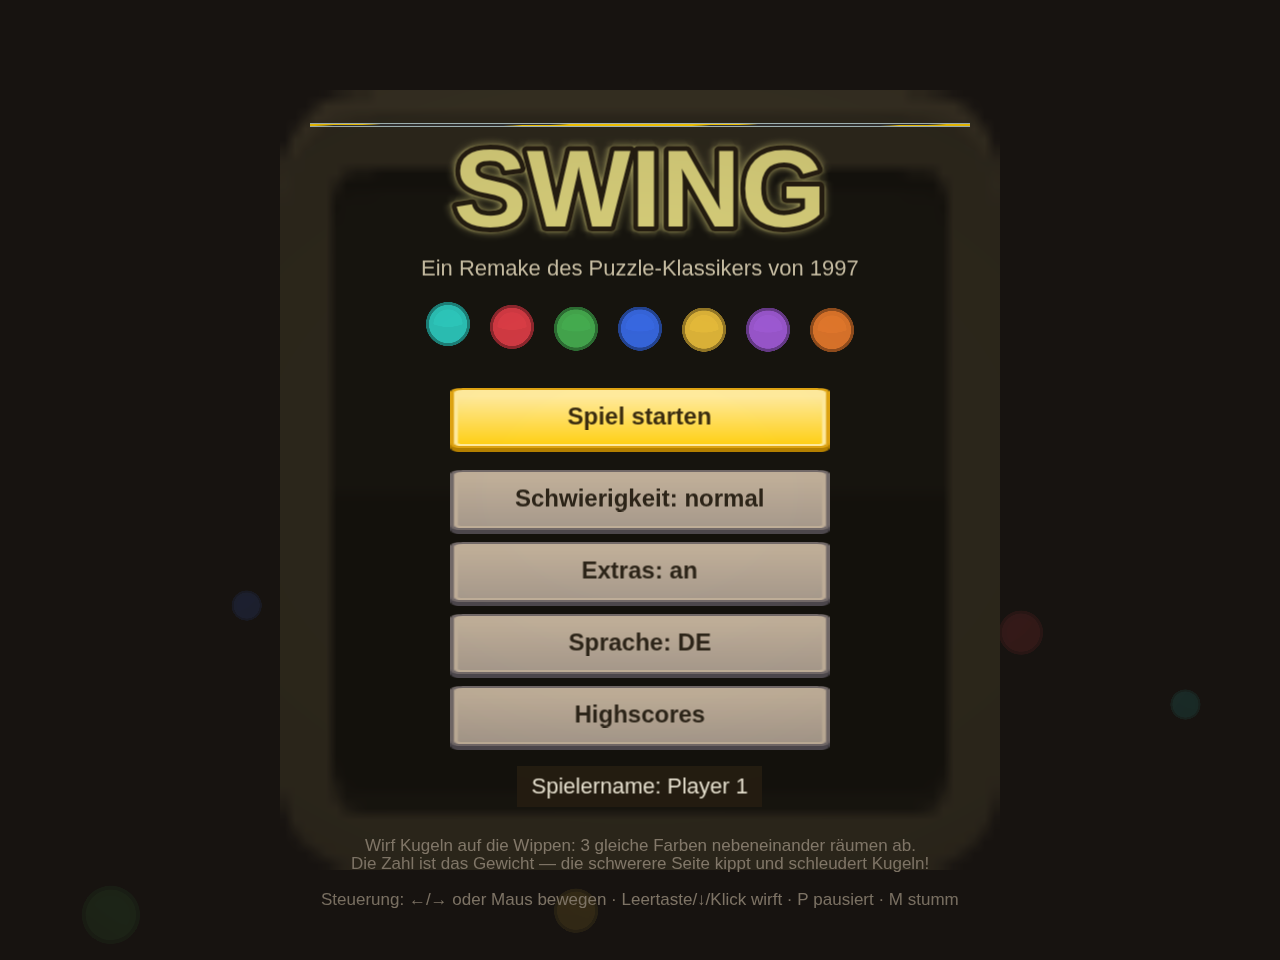
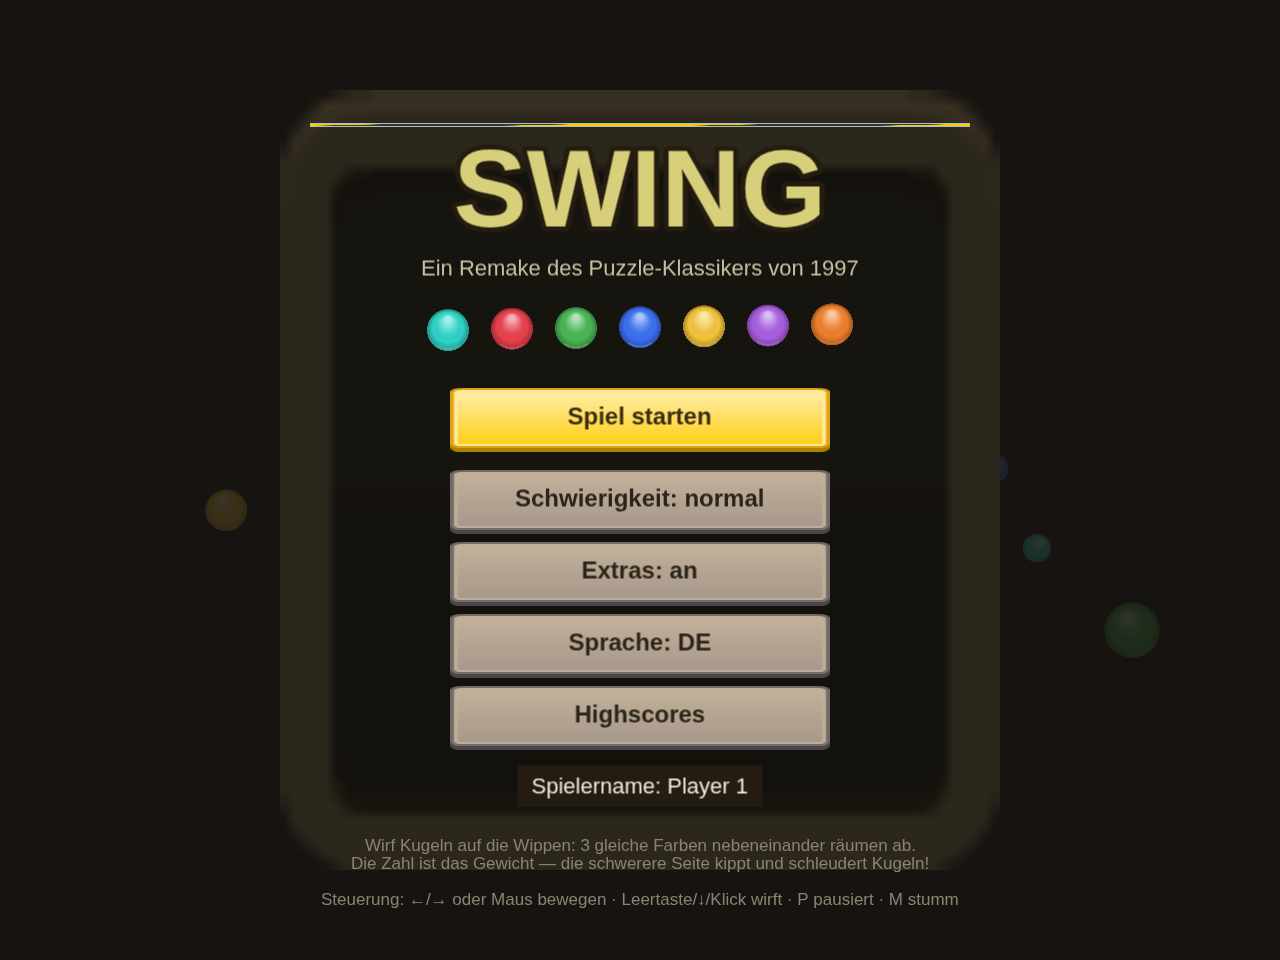
Fake-3D balls: shaded sphere textures with dynamic specular and roll layer
Replaces the tinted Kenney marble with runtime-generated sphere
textures (per color + heart/bomb/star, conic-gradient rainbow joker):
baked top light, dark occluded rim, bottom bounce light. Each ball is
now three layers - shaded base, faint surface bands, specular dot.
The specular tracks the scene light source every frame as balls move;
during catapult flights only the surface layer rotates while shading,
specular and the weight number stay put, selling the rolling-sphere
illusion. Falling balls stretch slightly and keep the impact squash.

Claude-Session: https://claude.ai/code/session_01XkumnvhzRckXP6D2DwknxV

diff --git a/src/scenes/PreloadScene.js b/src/scenes/PreloadScene.js
@@ -1,7 +1,7 @@
-// Loads every asset with a progress bar, generates the joker's rainbow
-// texture, then hands over to the menu (or straight into the game for
-// ?autostart=1 test runs).
-import { LAYOUT, FONTS } from '../config.js';
+// Loads every asset with a progress bar, generates the shaded ball textures
+// and helper gradients, then hands over to the menu (or straight into the
+// game for ?autostart=1 test runs).
+import { LAYOUT, FONTS, COLOR_TINTS, HEART_TINT, BOMB_TINT, STAR_TINT } from '../config.js';
 import { setLang } from '../i18n.js';
 
 const INDUSTRIAL = [
@@ -34,8 +34,6 @@ export class PreloadScene extends Phaser.Scene {
     const fill = this.add.rectangle(cx - 206, cy + 20, 0, 18, 0xd8cf7a).setOrigin(0, 0.5);
     this.load.on('progress', (v) => { fill.width = 412 * v; });
 
-    this.load.image('ball', 'assets/balls/ball.png');
-    this.load.image('ball-plain', 'assets/balls/ball_plain.png');
     for (const name of INDUSTRIAL) this.load.image(`i-${name}`, `assets/industrial/${name}.png`);
     for (const name of PARTICLES) this.load.image(`p-${name}`, `assets/particles/${name}.png`);
     this.load.image('ui-button', 'assets/ui/button.png');
@@ -46,7 +44,7 @@ export class PreloadScene extends Phaser.Scene {
   }
 
   create() {
-    this.makeJokerTexture();
+    this.makeBallTextures();
     this.makeGeneratedTextures();
     const params = this.game.registry.get('params') ?? {};
     if (params.lang) setLang(params.lang);
@@ -97,23 +95,113 @@ export class PreloadScene extends Phaser.Scene {
     beam.refresh();
   }
 
-  // The joker is a rainbow ball: multiply a diagonal rainbow over the grey
-  // marble, then clip back to the marble's alpha.
-  makeJokerTexture() {
-    const src = this.textures.get('ball').getSourceImage();
-    const { width, height } = src;
-    const canvas = this.textures.createCanvas('ball-joker', width, height);
-    const ctx = canvas.getContext();
-    ctx.drawImage(src, 0, 0);
-    const grad = ctx.createLinearGradient(0, 0, width, height);
-    const stops = ['#ff5050', '#ffae30', '#ffe939', '#4fdc51', '#33c5ff', '#8a5cff', '#ff4bd8'];
-    stops.forEach((c, i) => grad.addColorStop(i / (stops.length - 1), c));
-    ctx.globalCompositeOperation = 'multiply';
-    ctx.fillStyle = grad;
-    ctx.fillRect(0, 0, width, height);
-    ctx.globalCompositeOperation = 'destination-in';
-    ctx.drawImage(src, 0, 0);
-    ctx.globalCompositeOperation = 'source-over';
-    canvas.refresh();
+  // Shaded sphere textures for every ball type, plus the specular dot and
+  // the rotating surface-band layer. All drawn at runtime — no image assets.
+  makeBallTextures() {
+    COLOR_TINTS.forEach((color, i) => makeShadedBall(this, `ball3d-c${i}`, color));
+    makeShadedBall(this, 'ball3d-heart', HEART_TINT);
+    makeShadedBall(this, 'ball3d-bomb', BOMB_TINT);
+    makeShadedBall(this, 'ball3d-star', STAR_TINT);
+    makeShadedBall(this, 'ball3d-joker', 0xcccccc, { rainbow: true });
+    makeSpecTexture(this);
+    makeBandTexture(this);
   }
+}
+
+const BALL_TEX_SIZE = 256;
+const BALL_TEX_R = 122;
+
+const cssColor = (color) => `#${color.toString(16).padStart(6, '0')}`;
+
+// A convincing 2D sphere: flat base color, a radial shading pass with the
+// light baked straight above (the dynamic specular wanders around it), a
+// dark occluded rim and a faint bounce light along the bottom edge.
+function makeShadedBall(scene, key, color, { rainbow = false } = {}) {
+  const S = BALL_TEX_SIZE;
+  const C = S / 2;
+  const R = BALL_TEX_R;
+  const canvas = scene.textures.createCanvas(key, S, S);
+  const ctx = canvas.getContext();
+  ctx.save();
+  ctx.beginPath();
+  ctx.arc(C, C, R, 0, Math.PI * 2);
+  ctx.clip();
+
+  if (rainbow && ctx.createConicGradient) {
+    const conic = ctx.createConicGradient(-Math.PI / 2, C, C);
+    const stops = ['#ff4b4b', '#ffae30', '#ffe93a', '#4fdc51', '#33c5ff', '#8a5cff', '#ff4bd8', '#ff4b4b'];
+    stops.forEach((s, i) => conic.addColorStop(i / (stops.length - 1), s));
+    ctx.fillStyle = conic;
+  } else if (rainbow) {
+    const lin = ctx.createLinearGradient(0, 0, S, S);
+    const stops = ['#ff4b4b', '#ffae30', '#ffe93a', '#4fdc51', '#33c5ff', '#8a5cff', '#ff4bd8'];
+    stops.forEach((s, i) => lin.addColorStop(i / (stops.length - 1), s));
+    ctx.fillStyle = lin;
+  } else {
+    ctx.fillStyle = cssColor(color);
+  }
+  ctx.fillRect(0, 0, S, S);
+
+  const shade = ctx.createRadialGradient(C, C - R * 0.52, R * 0.12, C, C + R * 0.12, R * 1.12);
+  shade.addColorStop(0, 'rgba(255,255,255,0.58)');
+  shade.addColorStop(0.3, 'rgba(255,255,255,0.14)');
+  shade.addColorStop(0.6, 'rgba(0,0,0,0)');
+  shade.addColorStop(0.87, 'rgba(0,0,0,0.30)');
+  shade.addColorStop(1, 'rgba(0,0,0,0.52)');
+  ctx.fillStyle = shade;
+  ctx.fillRect(0, 0, S, S);
+
+  // bounce light: thin bright arc along the lower rim
+  ctx.strokeStyle = 'rgba(255,255,255,0.14)';
+  ctx.lineWidth = 10;
+  ctx.beginPath();
+  ctx.arc(C, C, R - 10, Math.PI * 0.3, Math.PI * 0.7);
+  ctx.stroke();
+
+  ctx.restore();
+  canvas.refresh();
+}
+
+function makeSpecTexture(scene) {
+  const canvas = scene.textures.createCanvas('ball-spec', 64, 64);
+  const ctx = canvas.getContext();
+  const grad = ctx.createRadialGradient(32, 32, 2, 32, 32, 30);
+  grad.addColorStop(0, 'rgba(255,255,255,0.95)');
+  grad.addColorStop(0.3, 'rgba(255,255,255,0.4)');
+  grad.addColorStop(1, 'rgba(255,255,255,0)');
+  ctx.fillStyle = grad;
+  ctx.fillRect(0, 0, 64, 64);
+  canvas.refresh();
+}
+
+// Faint latitude bands + speckles; rotating this layer while the shading and
+// specular stay put reads as the ball rolling under a fixed light.
+function makeBandTexture(scene) {
+  const S = BALL_TEX_SIZE;
+  const C = S / 2;
+  const R = BALL_TEX_R;
+  const canvas = scene.textures.createCanvas('ball-band', S, S);
+  const ctx = canvas.getContext();
+  ctx.save();
+  ctx.beginPath();
+  ctx.arc(C, C, R - 2, 0, Math.PI * 2);
+  ctx.clip();
+  ctx.strokeStyle = 'rgba(0,0,0,0.16)';
+  ctx.lineWidth = 16;
+  ctx.beginPath();
+  ctx.ellipse(C, C - R * 0.3, R * 0.86, R * 0.34, 0, 0, Math.PI * 2);
+  ctx.stroke();
+  ctx.strokeStyle = 'rgba(0,0,0,0.10)';
+  ctx.lineWidth = 12;
+  ctx.beginPath();
+  ctx.ellipse(C, C + R * 0.42, R * 0.78, R * 0.26, 0, 0, Math.PI * 2);
+  ctx.stroke();
+  ctx.fillStyle = 'rgba(255,255,255,0.10)';
+  for (const [dx, dy, r] of [[-0.45, 0.1, 9], [0.35, -0.5, 7], [0.5, 0.42, 8]]) {
+    ctx.beginPath();
+    ctx.arc(C + dx * R, C + dy * R, r, 0, Math.PI * 2);
+    ctx.fill();
+  }
+  ctx.restore();
+  canvas.refresh();
 }

diff --git a/src/view/BallSprite.js b/src/view/BallSprite.js
@@ -1,6 +1,21 @@
-// A ball on screen: tinted marble + weight number, plus overlays for the
-// special kinds. Pure display object; all movement is tweened from outside.
-import { LAYOUT, COLOR_TINTS, HEART_TINT, BOMB_TINT, STAR_TINT, FONTS } from '../config.js';
+// A ball on screen with a faked-3D look built from three layers:
+//   base  — runtime-shaded sphere texture (light baked from straight above)
+//   band  — faint surface markings; rotates while the ball flies, selling
+//           the "rolling under a fixed light" illusion
+//   spec  — specular dot pointing at the scene's light source, repositioned
+//           dynamically as the ball moves (updateLight)
+// The weight label and kind overlays stay upright at all times.
+import { LAYOUT, LIGHT, FONTS } from '../config.js';
+
+const TEXTURE_FOR = (ball) => {
+  switch (ball.kind) {
+    case 'joker': return 'ball3d-joker';
+    case 'heart': return 'ball3d-heart';
+    case 'bomb': return 'ball3d-bomb';
+    case 'star': return 'ball3d-star';
+    default: return `ball3d-c${ball.color}`;
+  }
+};
 
 export class BallSprite extends Phaser.GameObjects.Container {
   constructor(scene, ball, x, y, diameter = LAYOUT.BALL_D) {
@@ -9,22 +24,24 @@ export class BallSprite extends Phaser.GameObjects.Container {
     this.kind = ball.kind;
     this.diameter = diameter;
 
-    const texKey = ball.kind === 'joker' ? 'ball-joker' : 'ball';
-    this.base = scene.add.image(0, 0, texKey);
-    this.base.setDisplaySize(diameter, diameter);
-    this.add(this.base);
+    this.base = scene.add.image(0, 0, TEXTURE_FOR(ball)).setDisplaySize(diameter, diameter);
+    this.band = scene.add.image(0, 0, 'ball-band')
+      .setDisplaySize(diameter, diameter)
+      .setAlpha(ball.kind === 'joker' ? 0.3 : 0.55)
+      .setAngle(ball.id * 47 % 360); // vary the resting surface per ball
+    this.spec = scene.add.image(0, 0, 'ball-spec')
+      .setDisplaySize(diameter * 0.52, diameter * 0.52)
+      .setAlpha(0.85);
+    this.add([this.base, this.band, this.spec]);
 
     switch (ball.kind) {
       case 'normal':
-        this.base.setTint(COLOR_TINTS[ball.color]);
         this.addLabel(scene, String(ball.weight), diameter);
         break;
       case 'heart':
-        this.base.setTint(HEART_TINT);
         this.addLabel(scene, '♥', diameter, '#ffffff');
         break;
       case 'bomb': {
-        this.base.setTint(BOMB_TINT);
         const fuse = scene.add.image(diameter * 0.22, -diameter * 0.3, 'p-flame_01')
           .setDisplaySize(diameter * 0.34, diameter * 0.34)
           .setTint(0xffa030);
@@ -33,7 +50,6 @@ export class BallSprite extends Phaser.GameObjects.Container {
         break;
       }
       case 'star': {
-        this.base.setTint(STAR_TINT);
         const star = scene.add.image(0, 0, 'ui-star')
           .setDisplaySize(diameter * 0.55, diameter * 0.55)
           .setTint(0xffffff);
@@ -41,8 +57,9 @@ export class BallSprite extends Phaser.GameObjects.Container {
         break;
       }
       case 'joker':
-        break; // rainbow texture speaks for itself
+        break; // the rainbow sphere speaks for itself
     }
+    this.updateLight();
     scene.add.existing(this);
   }
 
@@ -61,5 +78,21 @@ export class BallSprite extends Phaser.GameObjects.Container {
   // Used after a wrap-around transform or a merge weight change.
   setWeightLabel(weight) {
     if (this.label) this.label.setText(String(weight));
+  }
+
+  // Point the specular highlight at the light source; called every frame for
+  // moving balls, once at construction for static ones (queue, menu).
+  updateLight() {
+    if (!this.scene) return;
+    const dx = LIGHT.x - this.x;
+    const dy = LIGHT.y - this.y;
+    const len = Math.hypot(dx, dy) || 1;
+    const k = this.diameter * 0.21;
+    this.spec.setPosition((dx / len) * k, (dy / len) * k);
+  }
+
+  // Roll the surface layer (flight/catapult animation).
+  spin(deg) {
+    this.band.angle += deg;
   }
 }

diff --git a/src/view/EventPlayer.js b/src/view/EventPlayer.js
@@ -68,6 +68,8 @@ export class EventPlayer {
     this.scene.tweens.add({
       targets: shadow, displayWidth: LAYOUT.BALL_D * 0.95, displayHeight: 16, alpha: 0.5, duration,
     });
+    // slight stretch while falling, squash on impact
+    sprite.setScale(0.97, 1.05);
     await this.tween({
       targets: sprite,
       x: colX(ev.col),
@@ -75,11 +77,11 @@ export class EventPlayer {
       duration,
       ease: 'Quad.easeIn',
     });
+    sprite.setScale(1);
     shadow.destroy();
     landPuff(this.scene, colX(ev.col), targetY + LAYOUT.BALL_D / 2 - 4, Math.min(3, rows * 0.4));
     sprite.setDepth(10);
     this.scene.sfx(`land_${ev.ball.id % 3}`, 0.5);
-    // little squash on impact
     await this.tween({
       targets: sprite, scaleY: 0.88, duration: 55, yoyo: true, ease: 'Quad.easeOut',
     });
@@ -156,13 +158,10 @@ export class EventPlayer {
         const { t } = proxy;
         sprite.x = x0 + (x1 - x0) * t;
         sprite.y = y0 + (y1 - y0) * t - height * 4 * t * (1 - t);
-        sprite.angle += 7;
+        sprite.spin(9); // roll the surface, not the whole ball
         if (fade && t > 0.7) sprite.setAlpha(1 - (t - 0.7) / 0.3);
       },
-    }).then(() => {
-      stopTrail();
-      sprite.setAngle(0);
-    });
+    }).then(() => stopTrail());
   }
 
   async on_match(ev) {

diff --git a/src/scenes/MainMenuScene.js b/src/scenes/MainMenuScene.js
@@ -37,9 +37,8 @@ export class MainMenuScene extends Phaser.Scene {
 
     // Slow rain of dim marbles behind the panel
     for (let i = 0; i < 6; i++) {
-      const ball = this.add.image(0, 0, 'ball')
+      const ball = this.add.image(0, 0, `ball3d-c${i % COLOR_TINTS.length}`)
         .setDisplaySize(30 + (i % 3) * 14, 30 + (i % 3) * 14)
-        .setTint(COLOR_TINTS[i % COLOR_TINTS.length])
         .setAlpha(0.16);
       this.spawnFallingBall(ball, true);
     }
@@ -65,8 +64,8 @@ export class MainMenuScene extends Phaser.Scene {
 
     // Decorative marbles under the title, gently bobbing out of phase
     COLOR_TINTS.forEach((tint, i) => {
-      const marble = this.add.image(W / 2 + (i - 3) * 64, 330, 'ball')
-        .setDisplaySize(44, 44).setTint(tint);
+      const marble = this.add.image(W / 2 + (i - 3) * 64, 330, `ball3d-c${i}`)
+        .setDisplaySize(44, 44);
       this.tweens.add({
         targets: marble,
         y: 324,

diff --git a/src/scenes/GameScene.js b/src/scenes/GameScene.js
@@ -147,7 +147,7 @@ export class GameScene extends Phaser.Scene {
     mkLabel(W / 2 + 190, 12, t(`difficulty.${this.settings.difficulty}`), 18, '#f0ead8');
 
     // Left cluster: level ball, ball counter, bonus lamps
-    this.add.image(64, 64, 'ball').setDisplaySize(56, 56).setTint(0x2fd4c7).setDepth(40);
+    this.add.image(64, 64, 'ball3d-c0').setDisplaySize(56, 56).setDepth(40);
     this.levelText = mkLabel(64, 50, '1', 26, '#ffffff', 0.5).setOrigin(0.5, 0);
     mkLabel(64, 96, t('level'), 18, '#d8cf7a', 0.5).setOrigin(0.5, 0);
     this.add.image(150, 52, 'i-claw_prongs').setDisplaySize(30, 30).setTint(0x9a8d7c).setDepth(40);
@@ -417,6 +417,8 @@ export class GameScene extends Phaser.Scene {
   update(time, delta) {
     this.seesaws.forEach((s) => s.update(delta));
     this.claw.update(time);
+    // Keep every moving ball's specular pointed at the light source.
+    for (const sprite of this.sprites.values()) sprite.updateLight?.();
     if (!this.paused) this.playMs += delta;
     const total = Math.floor(this.playMs / 1000);
     const mm = String(Math.floor(total / 60)).padStart(2, '0');

diff --git a/src/config.js b/src/config.js
@@ -20,6 +20,9 @@ export const ballY = (col, stackIndex, tilts) => rowY(tiltOffset(col, tilts) + s
 
 // Ball colors 0..6: teal, red, green, blue, yellow, purple, orange
 export const COLOR_TINTS = [0x2fd4c7, 0xe8404a, 0x49b654, 0x3b6ff0, 0xf3c53d, 0xa85fe0, 0xf07f2e];
+
+// Imaginary light source above the field; ball speculars point toward it.
+export const LIGHT = { x: LAYOUT.W / 2, y: -260 };
 export const HEART_TINT = 0xf06292;
 export const BOMB_TINT = 0x4a4a52;
 export const STAR_TINT = 0xf3c53d;